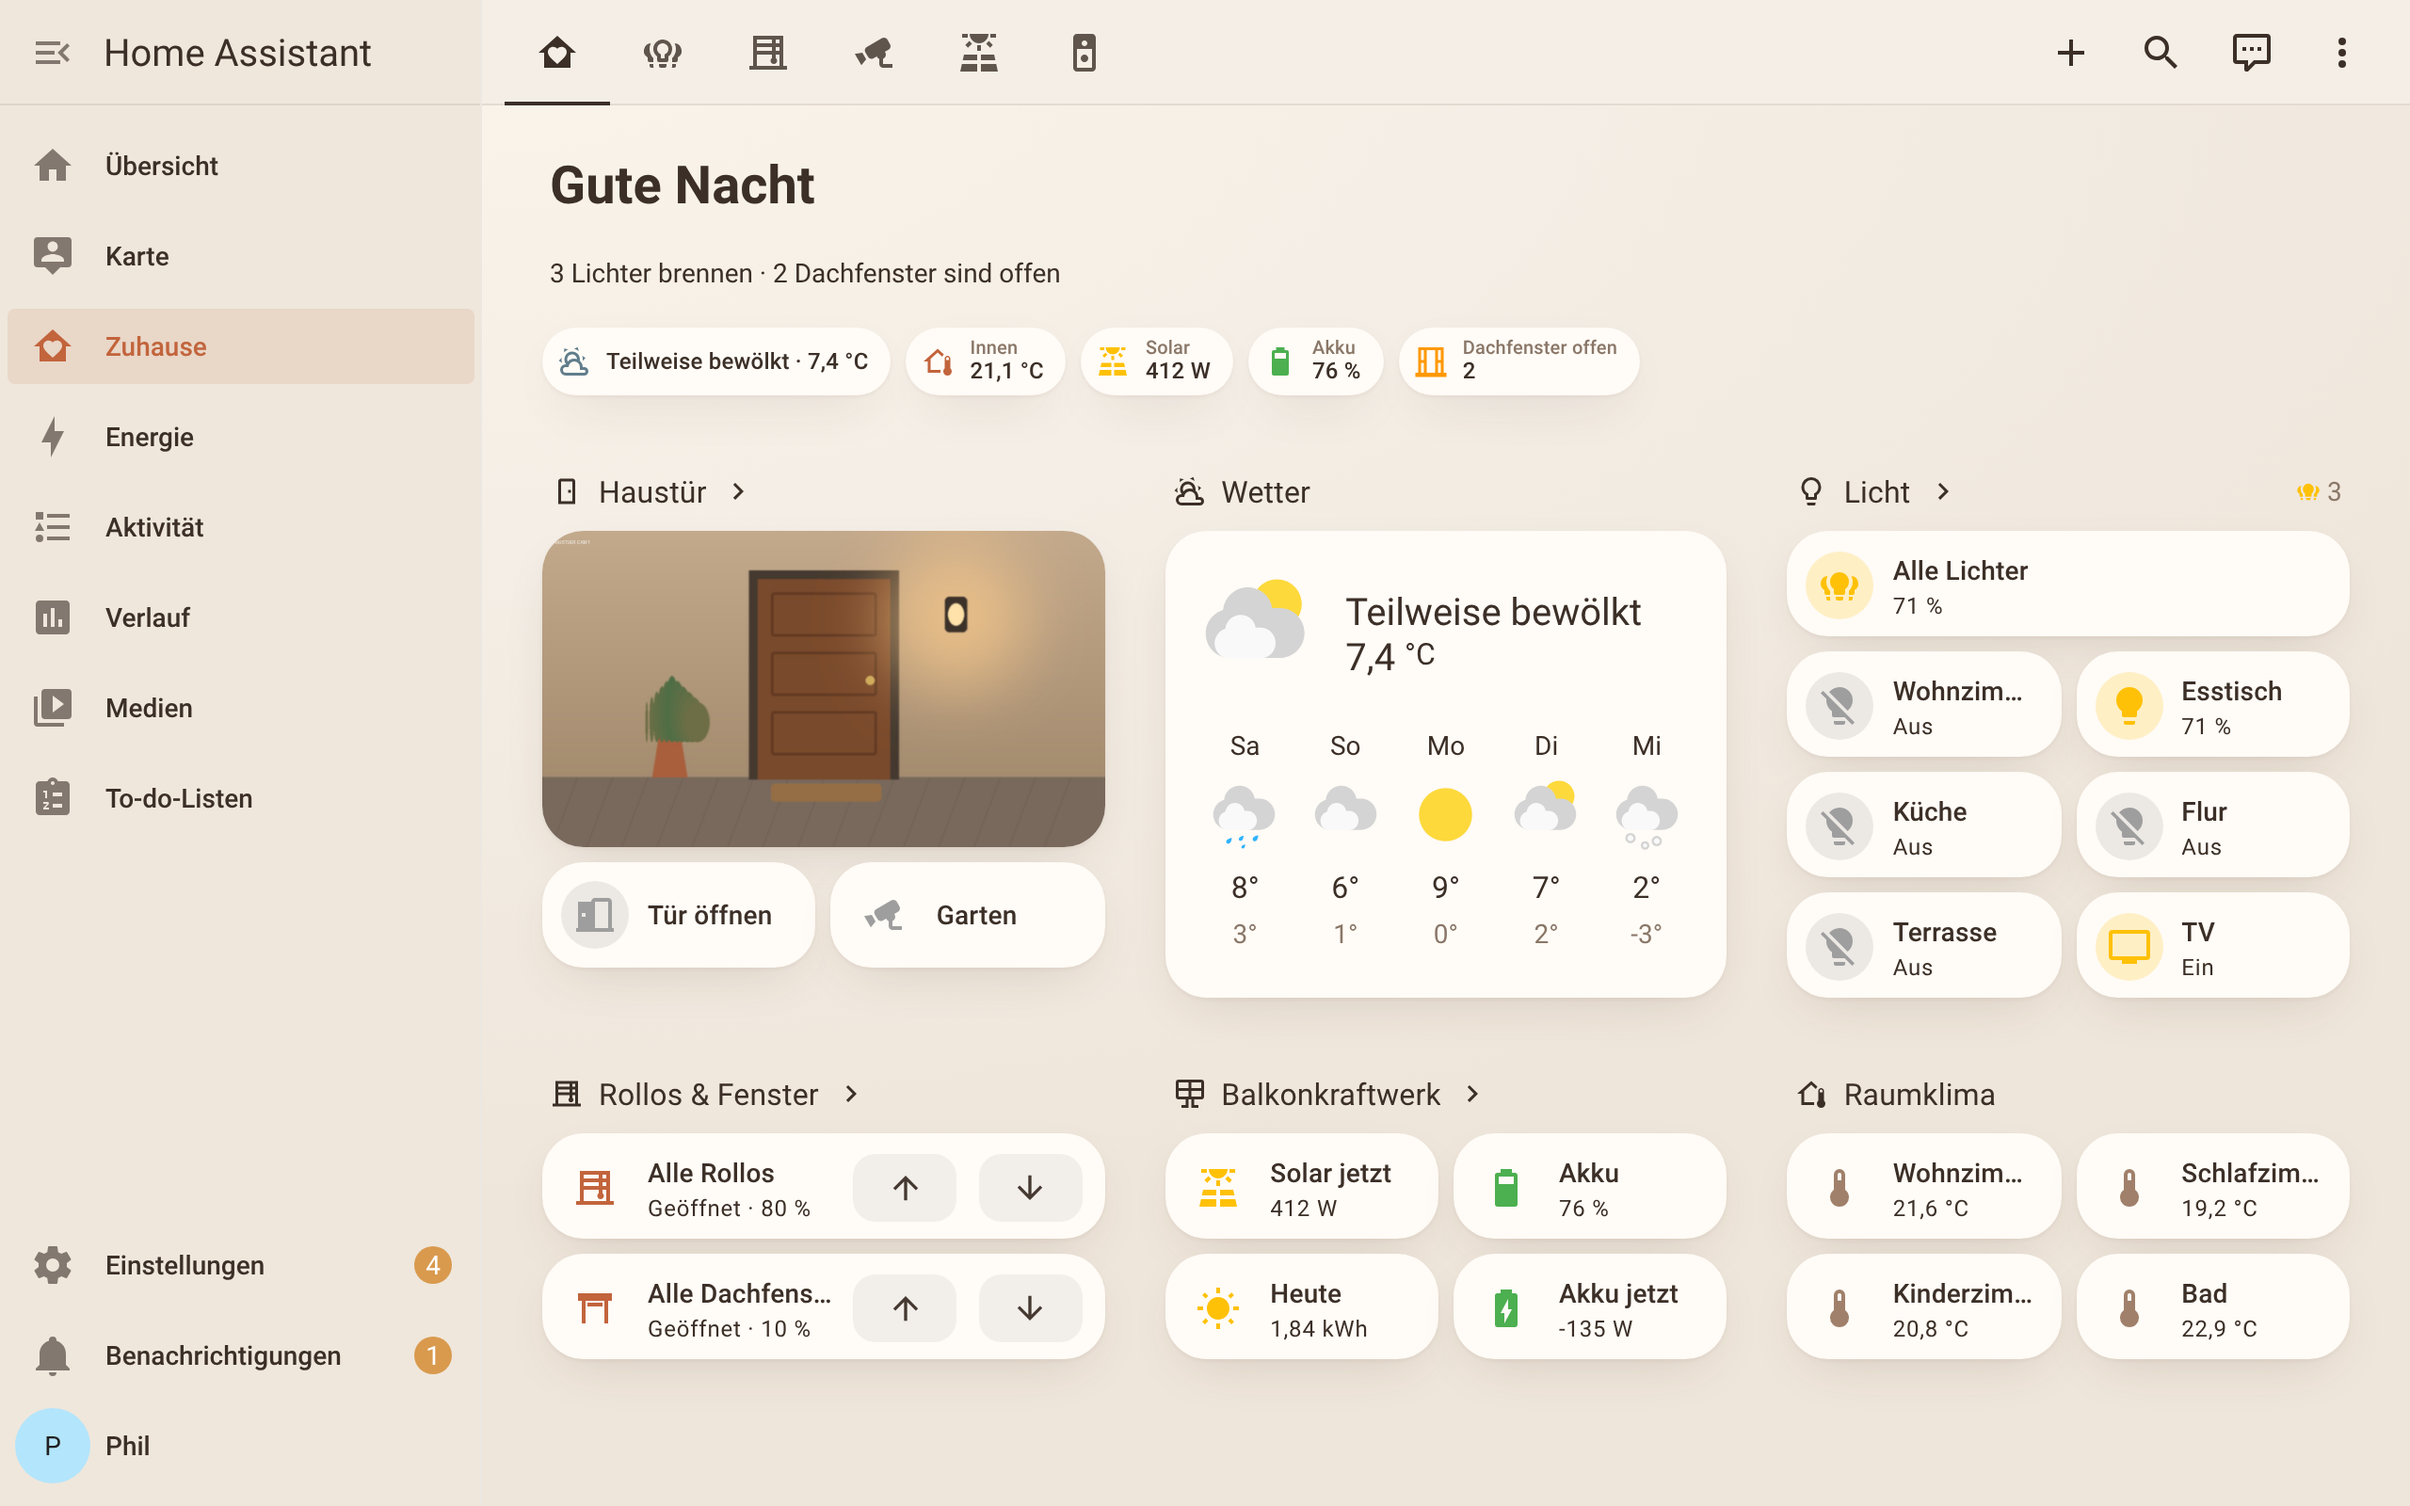
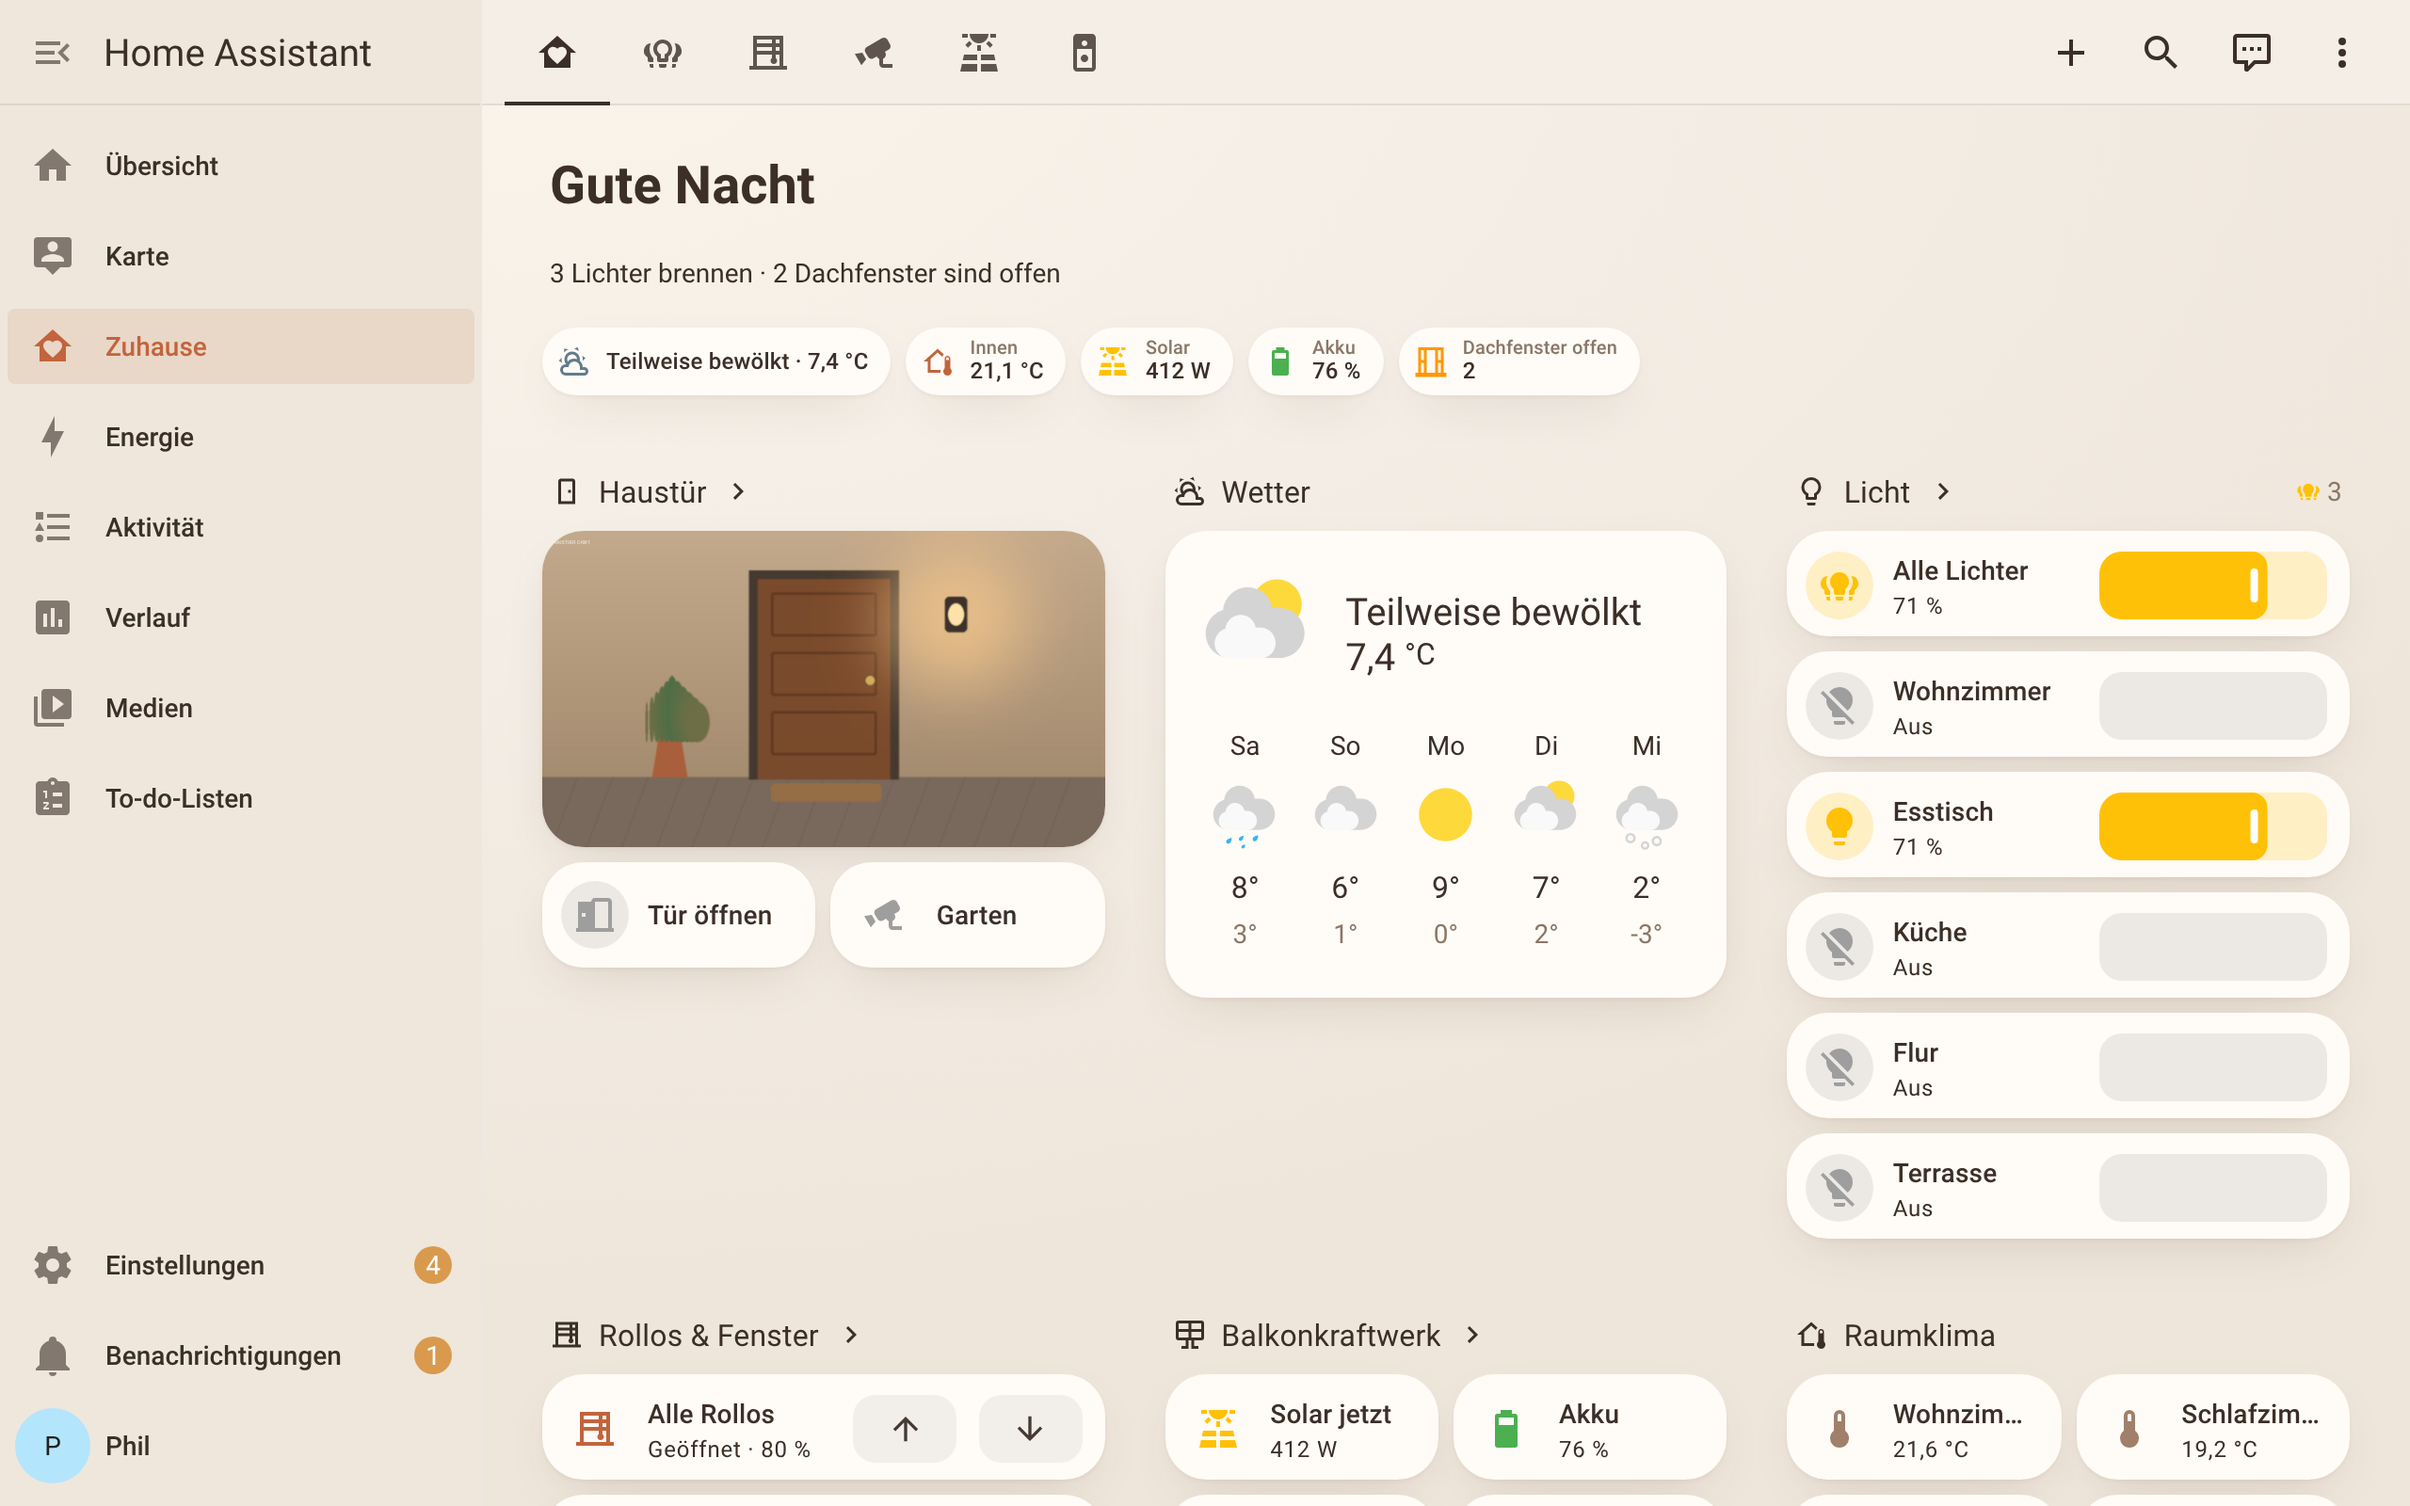
Übersicht: Lampen direkt dimmbar
Claude-Session: https://claude.ai/code/session_01WkuXR1mXm3cG4XFExM6F89

Changed region(s): [[0.2188, 0.3438, 1.0, 1.0], [0.75, 0.5312, 0.8125, 0.5938], [0.7812, 0.5938, 0.8125, 0.625]]

diff --git a/dashboard/README.md b/dashboard/README.md
@@ -20,7 +20,7 @@ Zusatzkarten, kein HACS, nichts, was bei einem Update kaputtgehen kann.
 - **Haustür**: Standbild, „Tür öffnen“, zweite Kamera.
   **Klingelt es**, erscheint ganz oben groß das **Livebild** mit „Tür öffnen“ (3 Minuten lang).
 - **Wetter** mit Vorhersage; regnet es bei offenem Dachfenster, kommt ein Hinweis
-- **Licht**: „Alle Lichter“ und sechs Lieblingslampen
+- **Licht**: „Alle Lichter“ und fünf Lieblingslampen, jeweils direkt dimmbar (Schieber); Tippen aufs Symbol schaltet
 - **Rollos & Fenster**: alle Rollos / alle Dachfenster auf und zu
 - **Balkonkraftwerk**: Solar jetzt, Akku, Ertrag heute, Akku-Leistung
 - **Raumklima**: Temperatur in vier Räumen
